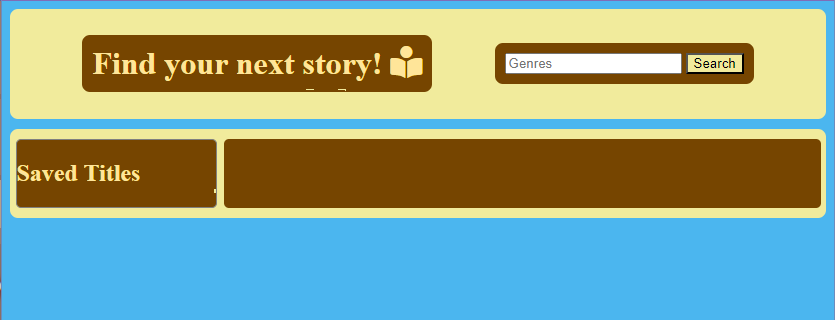
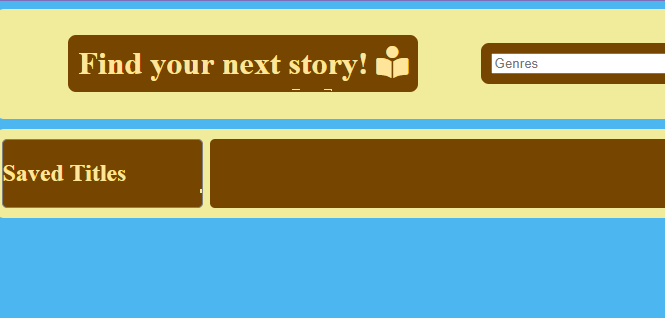
styling projects

Changed region(s): [[0.0, 0.0, 1.0, 1.0]]

diff --git a/src/components/Project.scss b/src/components/Project.scss
@@ -1,0 +1,108 @@
+.project-card {
+  width: 100%;
+  height: 100%;
+  display: flex;
+  flex-direction: row;
+  flex-wrap: wrap;
+  justify-content: space-around;
+  align-items: center;
+  
+
+  .project {
+    width: 40%;
+    height: 40%;
+    position: relative;
+
+    .project-img {
+      visibility: hidden;
+      position: absolute;
+      height: 100%;
+      max-width: 100%;
+      display: flex;
+      justify-content: center;
+      align-items: center;
+      z-index: 999;
+      
+      img {
+        width: 100%;
+        height: 100%;
+        border-radius: 100px;
+        box-shadow: 3px 3px 3px #0e2d06ff;
+        object-fit: cover;
+      }
+    }
+
+    .project-info {
+      // visibility: hidden;
+      position: absolute;
+      width: 100%;
+      height: 100%;
+      display: flex;
+      flex-direction: column;
+      justify-content: center;
+      align-items: center;
+      
+      
+      h3 {
+        font-family: 'Quicksand', sans-serif;
+        font-weight: 300;
+        font-size: 1.8rem;
+        color: #e6ffe0ff;
+        text-shadow: 2px 2px 2px #0e2d06ff;
+      }
+
+      p {
+        font-family: 'Quicksand', sans-serif;
+        font-weight: 300;
+        font-size: 1.1rem;
+        color: #e6ffe0ff;
+      }
+
+      .links {
+        display: flex;
+        flex-direction: row;
+        width: 40%;
+        justify-content: space-around;
+        align-items: center;
+        
+        a {
+          font-size: 2rem;
+          color: #0e2d06ff;
+          text-decoration: none;
+          border: 2px solid #0e2d06ff;
+          padding: 10px;
+          border-radius: 50%;
+        }
+
+        a:hover {
+          color: #e6ffe0ff;
+          background-color: #0e2d06ff;
+          border: 2px solid #0e2d06ff;
+          padding: 10px;
+          border-radius: 50%;
+          box-shadow: 0 0 10px #e6ffe0ff;
+          transform: translate(0, -5px);
+        }
+
+        a:active {
+          color: #e6ffe0ff;
+          background-color: #0e2d06ff;
+          border: 2px solid #0e2d06ff;
+          padding: 10px;
+          border-radius: 50%;
+          box-shadow: 0 0 1px #e6ffe0ff;
+          transform: translate(0);
+        }
+      }
+    }
+  }
+  
+  .project:hover {
+
+    .project-img {
+      visibility: hidden;
+      opacity: 0.15;
+      box-shadow: 0 0 10px #0e2d06ff;
+    }
+  }
+}

diff --git a/src/components/pages/Portfolio.js b/src/components/pages/Portfolio.js
@@ -11,28 +11,28 @@ import React from 'react';
 const projects = [
   {
     title: 'Story Finder',
-    description: 'A site for resders to find and save books',
+    description: 'A site for resders to find and save books.',
     image: proj1,
     github: 'https://github.com/b-crites/BookClub',
     deployed: 'https://b-crites.github.io/BookClub/'
   },
   {
     title: 'Password Generator',
-    description: 'A simple pasword generator that allows the user to select the length and type of characters to include in their password',
+    description: 'A simple pasword generator that allows the user to select the length and type of characters to include in their password.',
     image: proj2,
     github: 'https://github.com/elissamaine/Password-Generator',
     deployed: 'https://elissamaine.github.io/Password-Generator/'
   },
   {
     title: `Cook's Companion`,
-    description: 'A site for users to save and share their favorite recipes',
+    description: 'A site for users to save and share their favorite recipes.',
     image: proj3,
     github: 'https://github.com/andrewmuhn/cooks-companion',
     deployed: 'https://cookscompanion.herokuapp.com/'
   },
   {
     title: 'Tech Blog',
-    description: 'A site for users to share their thoughts and opinions on tech',
+    description: 'A site for users to share their thoughts and opinions on tech.',
     image: proj4,
     github: 'https://github.com/elissamaine/Tech_Blog',
     deployed: 'https://aqueous-dusk-47864.herokuapp.com/'
@@ -42,11 +42,13 @@ const projects = [
 const Portfolio = () => {
   return (
     <main className='portfolio-page'>
-      <div className='title'>
-        <h1>Portfolio</h1>
-      </div>
-      <div className='project-container'>
-        <Project projects={projects} />
+      <div className='portfolio-page-container'>
+        <div className='title'>
+          <h1>Portfolio</h1>
+        </div>
+        <div className='project-container'>
+          <Project projects={projects} />
+        </div>
       </div>
     </main>
   );

diff --git a/src/components/pages/Portfolio.scss b/src/components/pages/Portfolio.scss
@@ -1,0 +1,35 @@
+.portfolio-page {
+  width: 100%;
+  display: flex;
+  justify-content: space-around;
+
+  .portfolio-page-container {
+    background-color: rgba(29, 73, 19, 0.87);
+    box-shadow: 3px 3px 3px #0e2d06ff;
+    padding: 10px;
+    border-radius: 25px;
+    width: 95%;
+    height: 650px;
+    display: flex;
+    align-items: center;
+
+    .title {
+      align-self: flex-start;
+      padding-left: 10px;
+
+    }
+    h1 {
+      font-family: 'Quicksand', sans-serif;
+      font-weight: 300;
+      font-size: 3.5rem;
+      color: #e6ffe0ff;
+      text-shadow: 2px 2px 2px #0e2d06ff;
+    }
+
+    .project-container {
+      width: 100%;
+      display: flex;
+      height: 100%;
+    }
+  }
+}

diff --git a/src/components/Project.js b/src/components/Project.js
@@ -5,15 +5,10 @@ import { FontAwesomeIcon } from '@fortawesome/react-fontawesome';
 import { faGithub } from '@fortawesome/free-brands-svg-icons';
 import { faDesktop } from '@fortawesome/free-solid-svg-icons';
 
-// import proj1 from '../images/proj1.PNG';
-// import proj2 from '../images/proj2.PNG';
-// import proj3 from '../images/proj3.PNG';
-// import proj4 from '../images/proj4.PNG';
-
 function Project(props) {
 
   return (
-    <div className='project-contaioner'>
+    <div className='project-card'>
       
       {props.projects.map(project => (
         <div className='project'>
